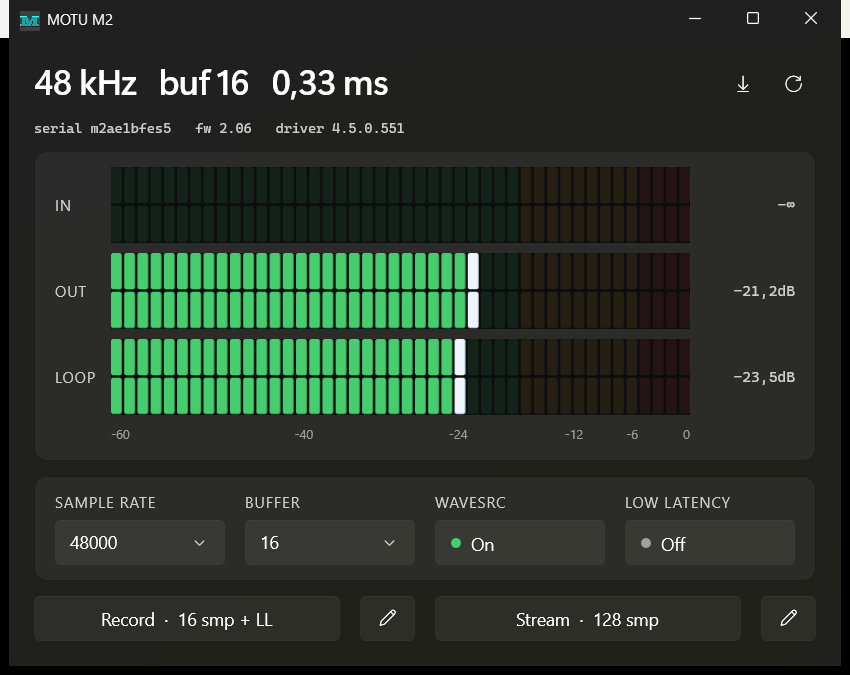
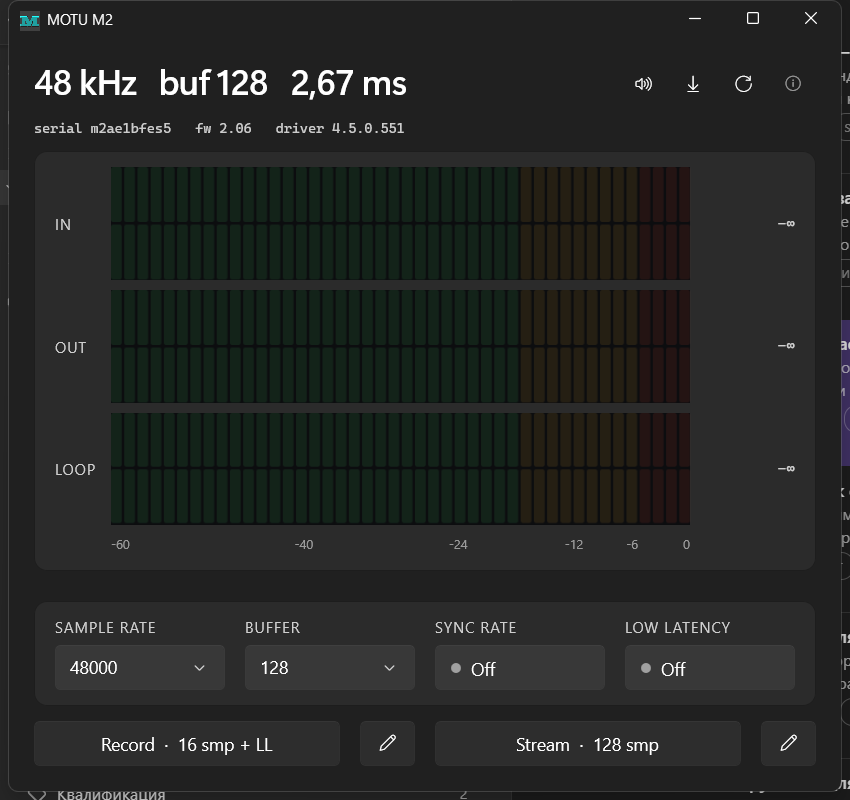
docs: refresh texts and screenshot for the 1.1.0 feature set
Generated with [Devin](https://devin.ai)

diff --git a/docs/index.html b/docs/index.html
@@ -64,6 +64,8 @@
   <ul>
     <li>Live stereo ladders for <b>IN</b> and <b>OUT</b> with peak hold and clip indication</li>
     <li><b>Loopback monitor</b> — a third meter showing exactly what OBS, Discord and other recorders hear</li>
+    <li><b>ON AIR card</b> (experimental, off by default) — loopback history, bus level and mute,
+    a live list of the apps feeding the bus, and per-app mutes</li>
     <li><b>Test tone</b> — one click plays 440&nbsp;Hz through the device so you can verify loopback visually</li>
     <li>Sample rate (44.1–192&nbsp;kHz) and host buffer size (16–1024 samples) with live latency readout</li>
     <li>Sync rate and Low Latency toggles, plainly named with tooltips that say what they do</li>
@@ -75,7 +77,7 @@
   <table>
     <tr><th></th><th>stock panel</th><th>motu-ui</th></tr>
     <tr><td>Live input/output meters</td><td>no</td><td>yes</td></tr>
-    <tr><td>Loopback monitor (what OBS hears)</td><td>no</td><td>yes</td></tr>
+    <tr><td>Loopback monitor (what OBS hears)</td><td>no</td><td>yes — plus bus level, mute and a per-app list</td></tr>
     <tr><td>Test tone</td><td>no</td><td>yes</td></tr>
     <tr><td>Buffer size / sample rate</td><td>yes</td><td>yes</td></tr>
     <tr><td>Editable latency presets</td><td>no</td><td>yes</td></tr>

diff --git a/docs/motu-m2-loopback-obs.html b/docs/motu-m2-loopback-obs.html
@@ -98,6 +98,10 @@
   utility that shows a live meter of the loopback endpoint next to the input and
   output meters — the speaker button sends a 440&nbsp;Hz tone through the device so
   you can watch OUT and LOOP light up and know the path works before you hit record.</p>
+  <p>Its experimental ON AIR card goes further: a fader for how loud the bus is to
+  recorders, one-click bus mute, and a list of the apps currently feeding it with
+  per-app levels and mutes — so a browser tab blasting ads into your stream is
+  visible instead of a mystery.</p>
 
   <footer>
     Guide by the author of <a href="https://github.com/dvinerlove/motu-ui">motu-ui</a>,
